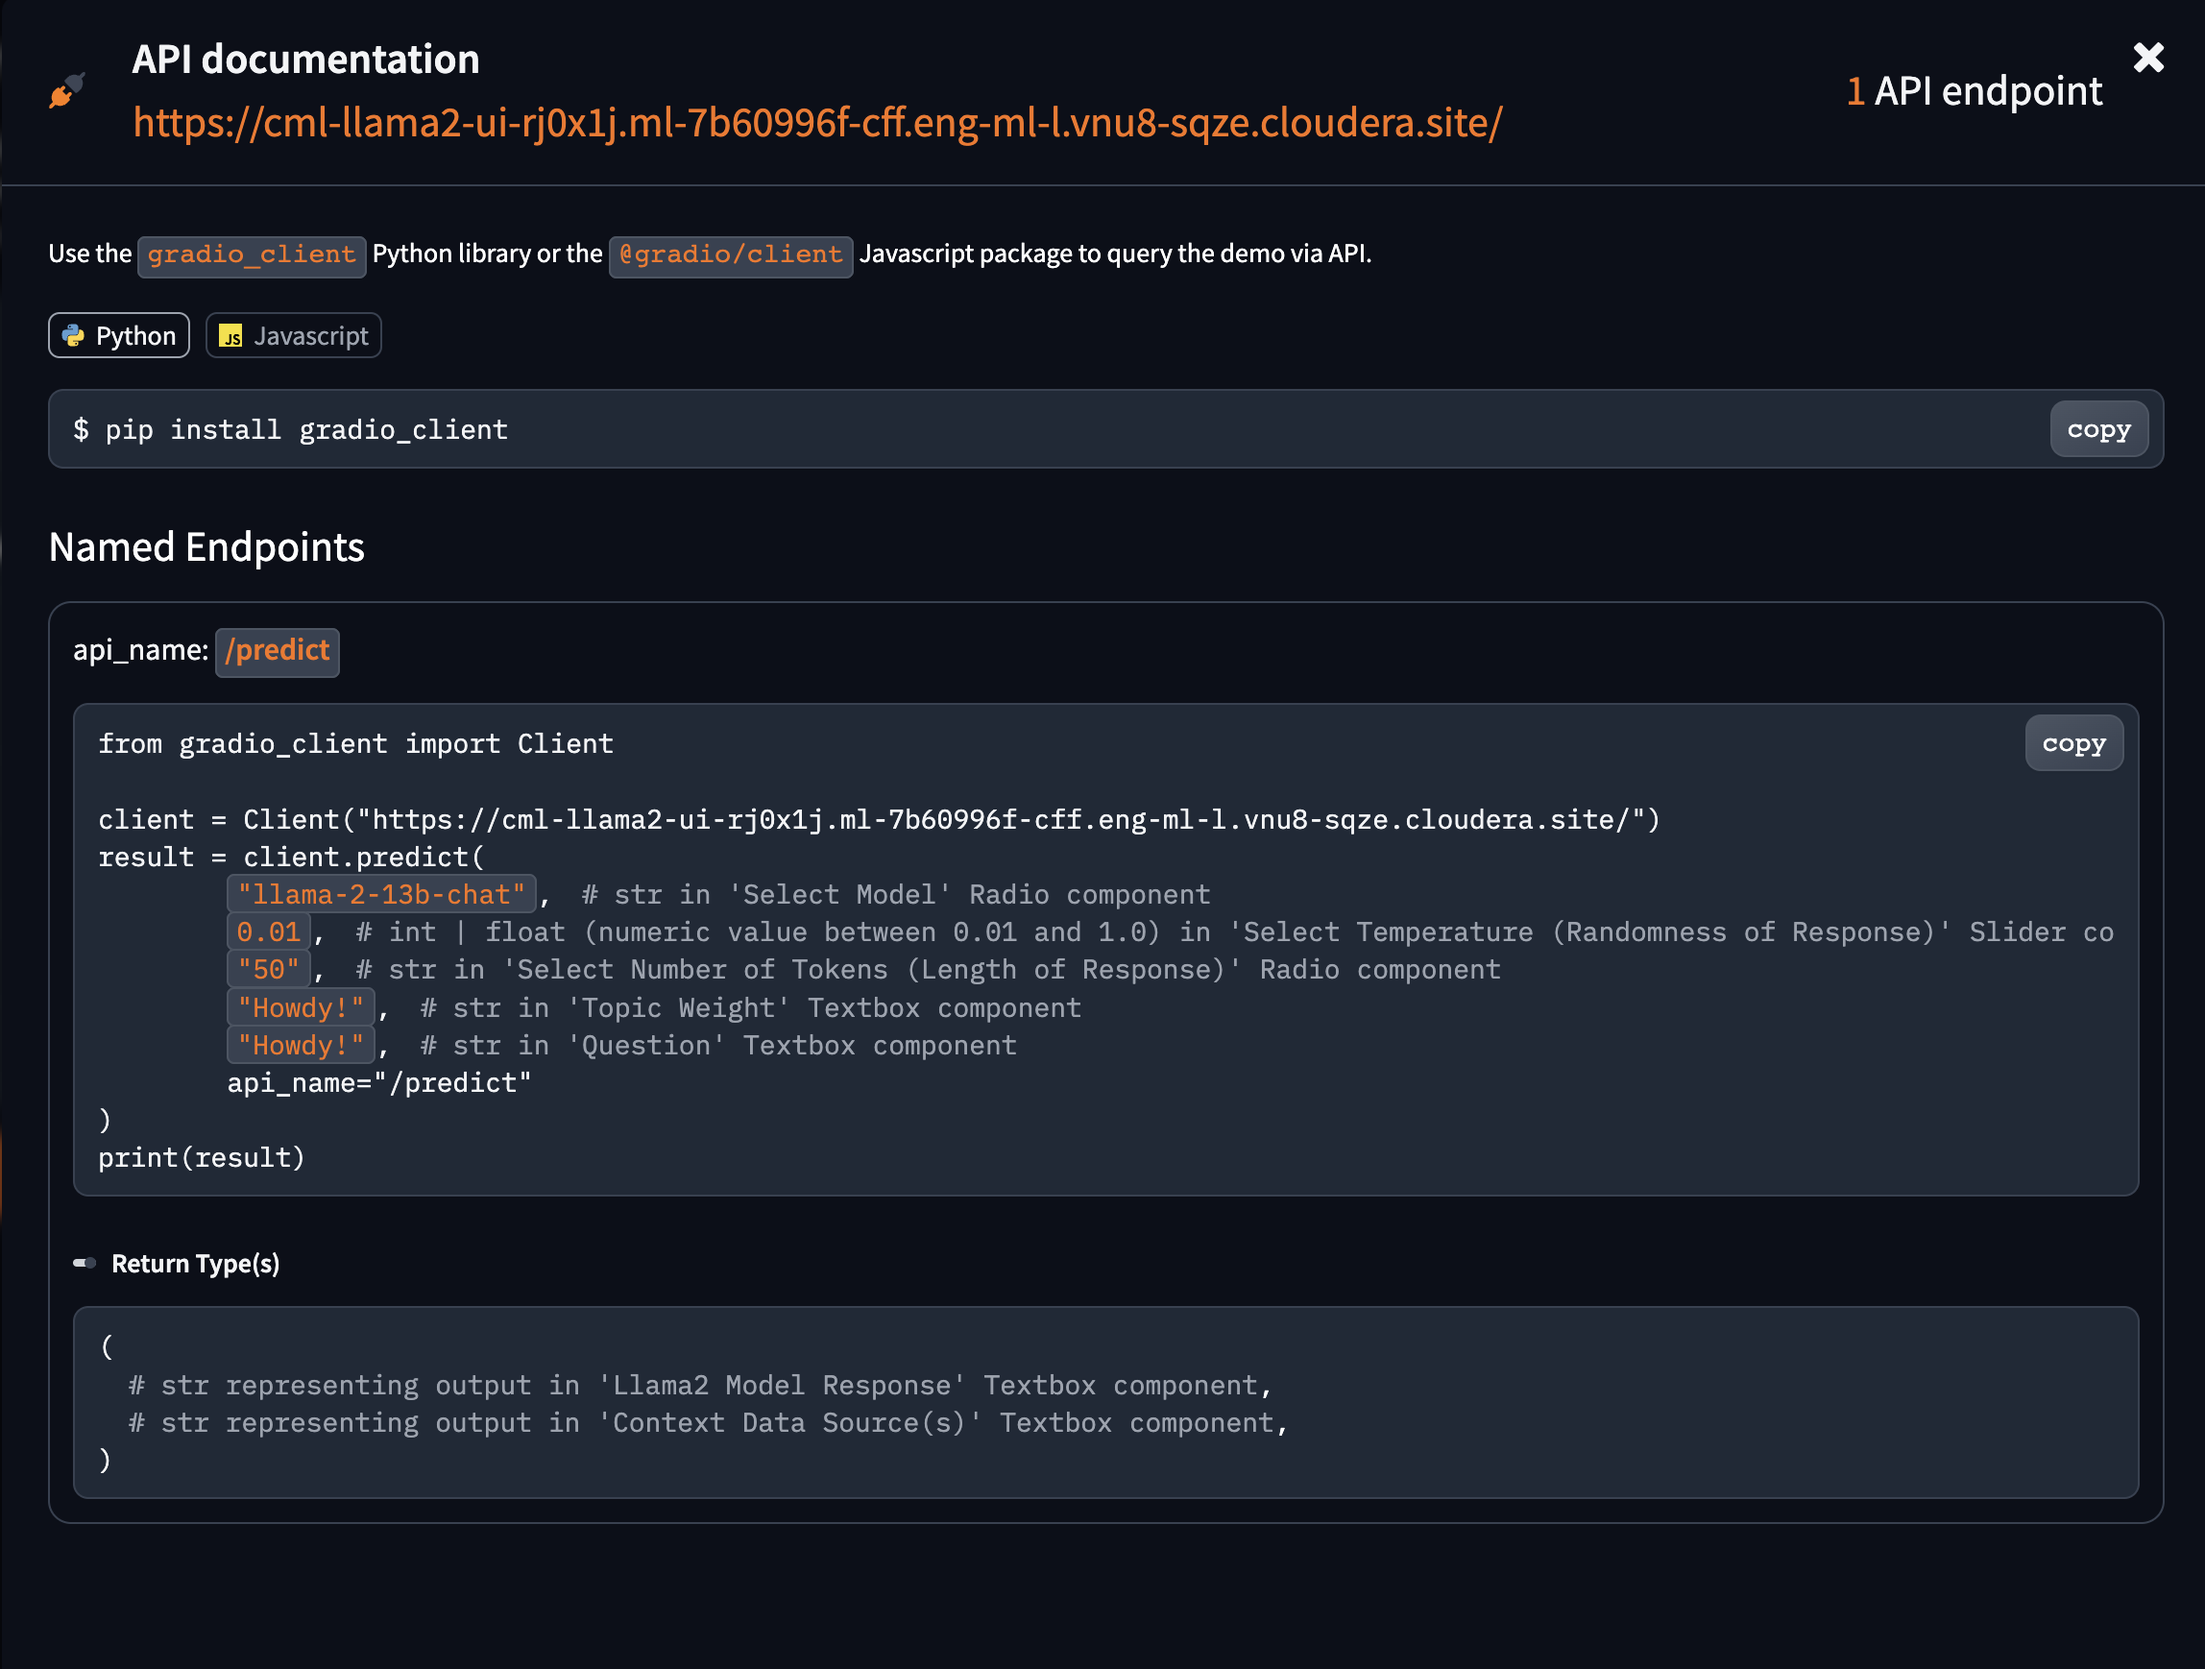
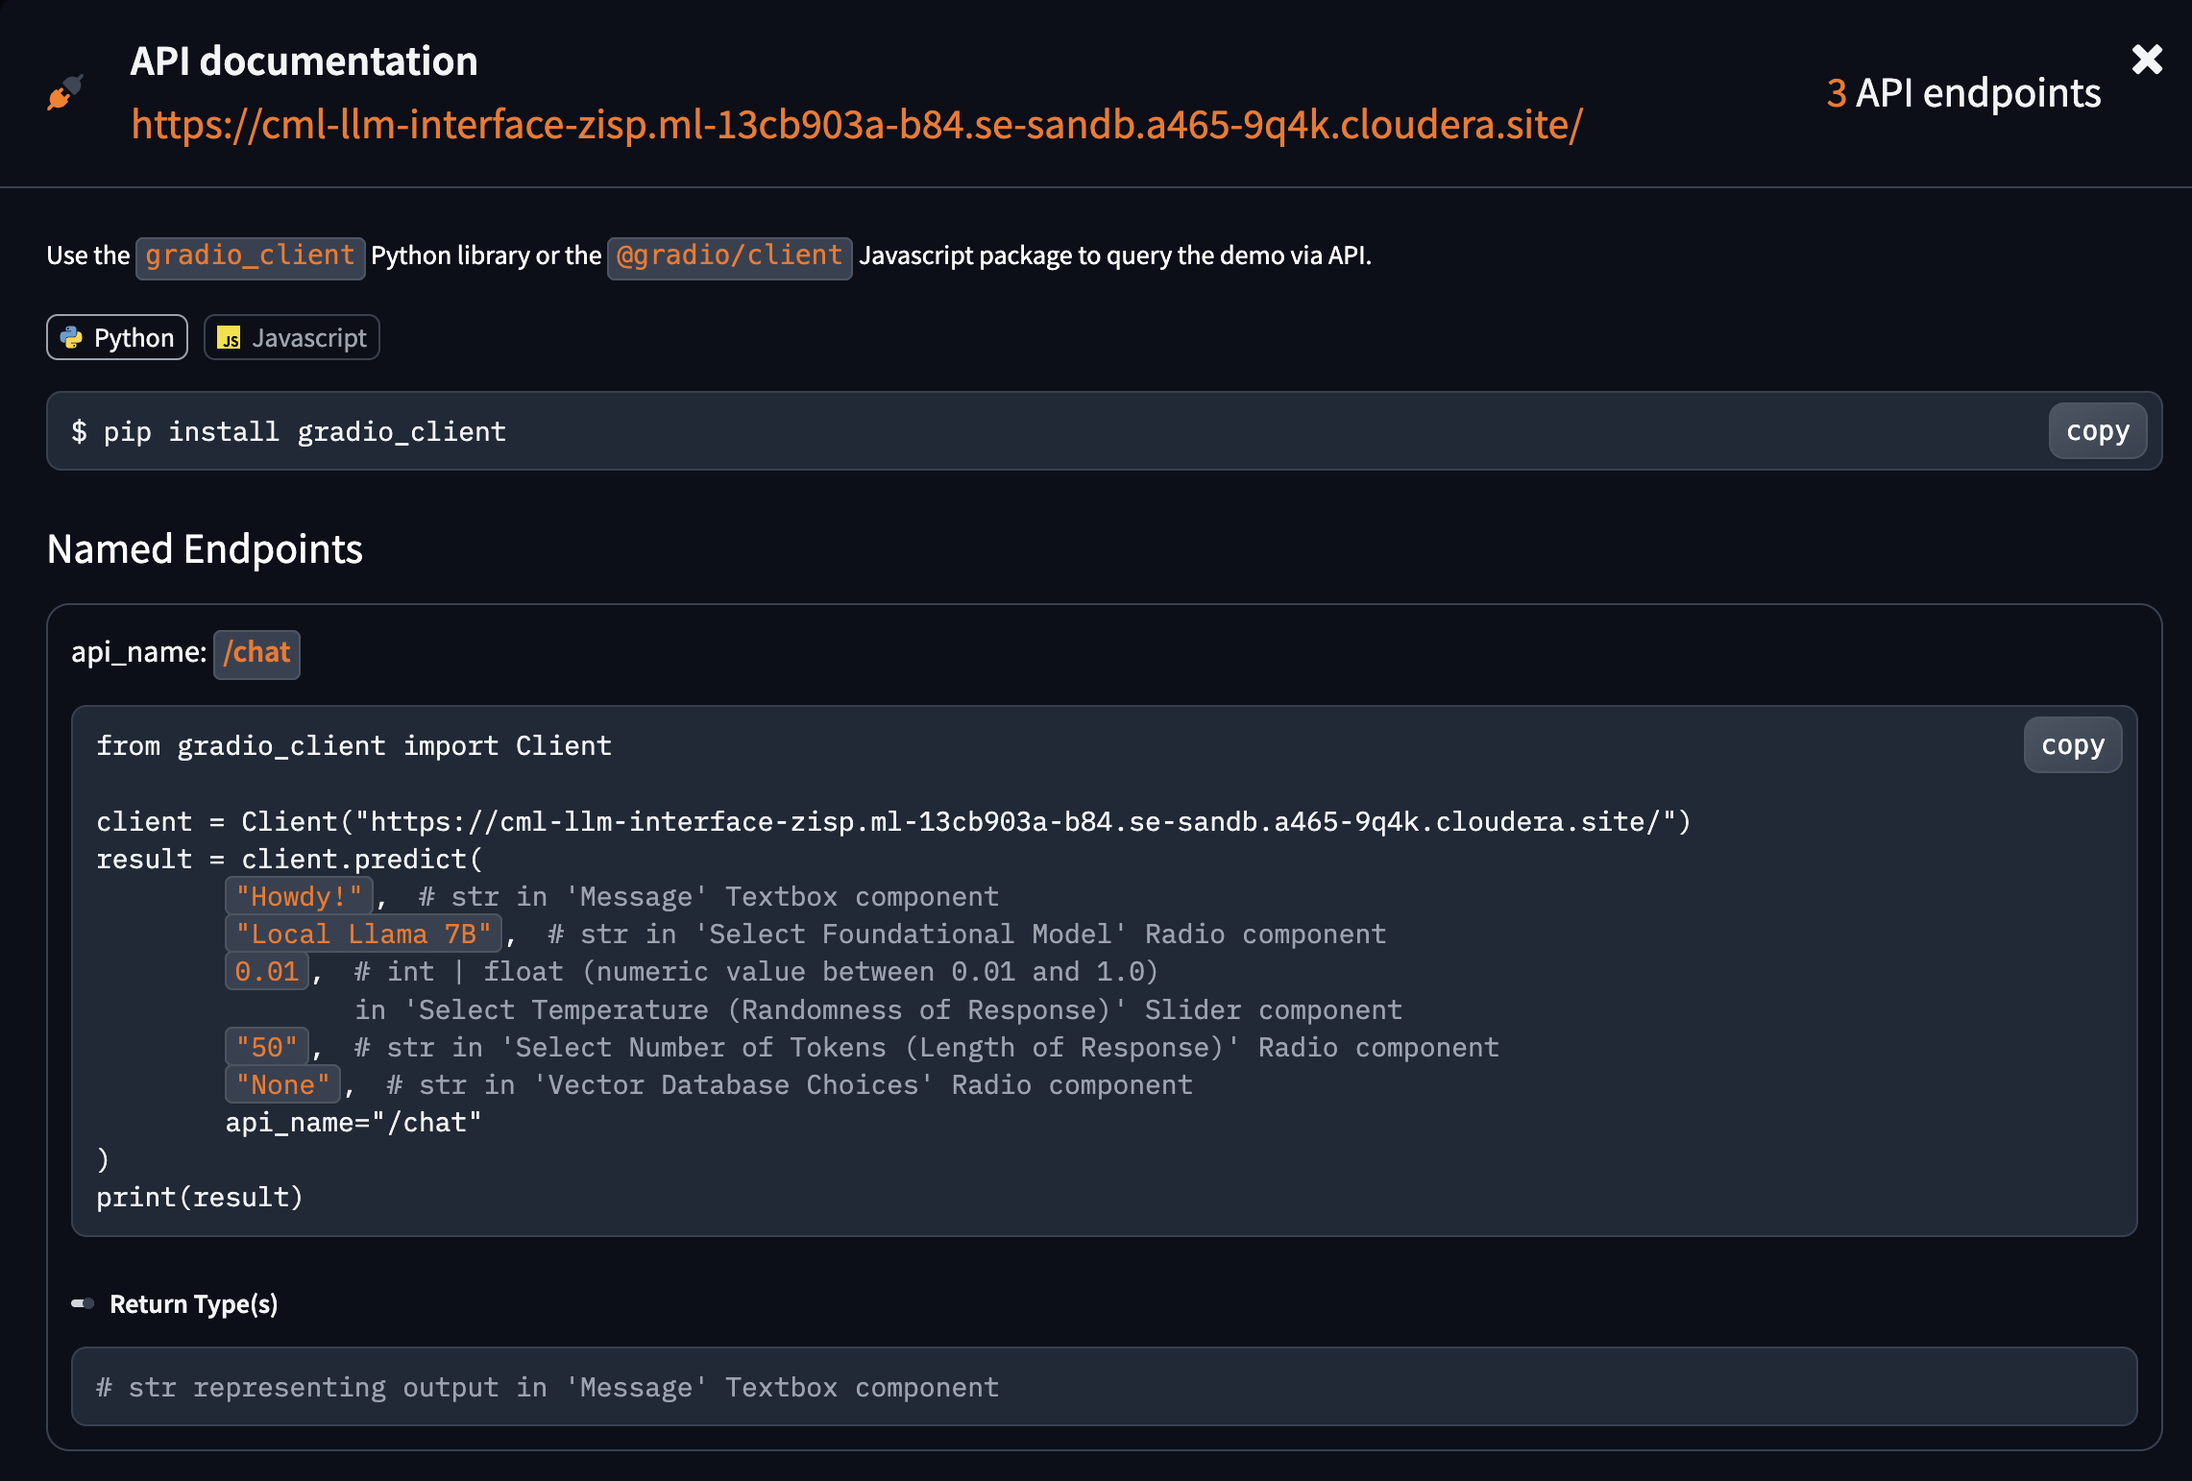
Updated gradio API info in README

diff --git a/README.md b/README.md
@@ -19,8 +19,6 @@ To build your own custom knowledge base, you will want to follow the instruction
 
 **Select Number of Tokens (Length of Response)** - Here several options have been provided. The number of tokens the user uses directly correlate with the length of the response the model returns.
 
-**Topic Weight** - The concept of a topic weight allows the user to further curate a model's response by ensuring it closely aligns to the known context.
-
 **Question** - Just as it sounds; this is where the user can provide a question to the model
 
 ### Outputs
